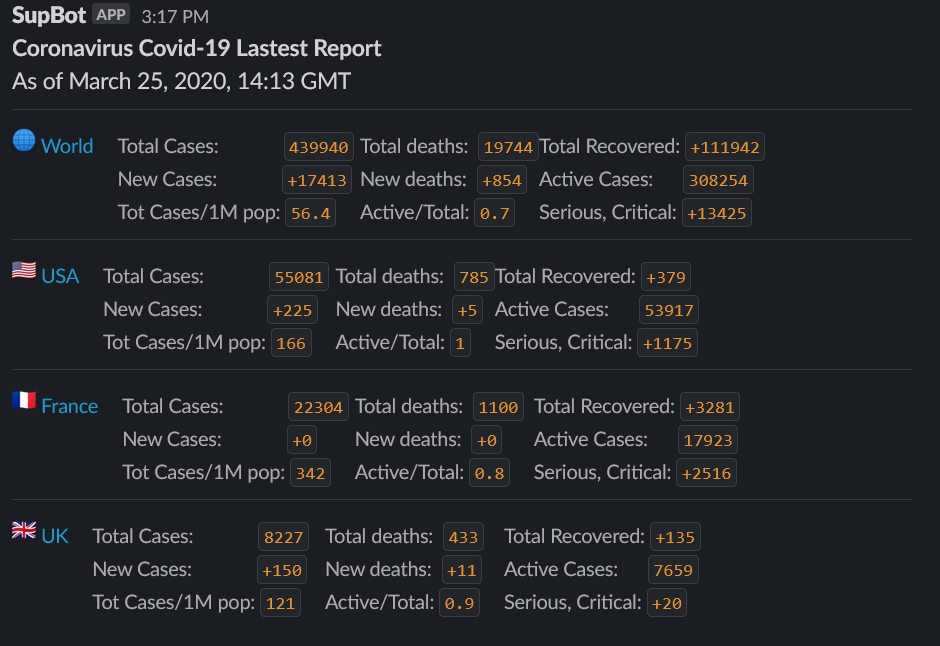
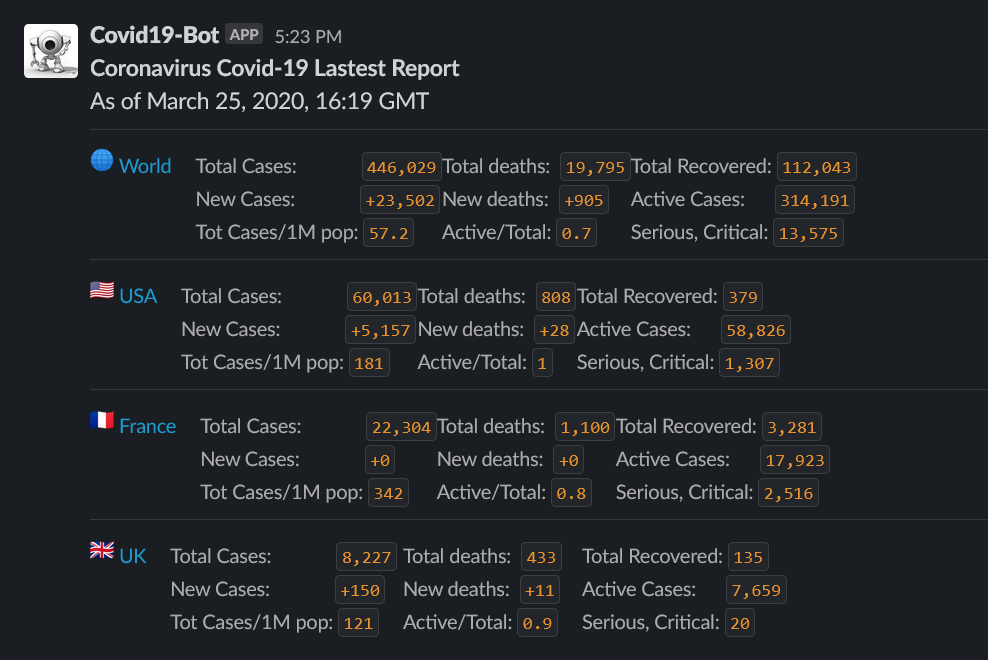
minor: add localized numbers

diff --git a/app.py b/app.py
@@ -40,19 +40,19 @@ class Covid19:
     source_url = "https://www.worldometers.info/coronavirus/"
     payload_fields = [
         {
-            "Total Cases:            ": lambda n: f"{n[0]:d}",
-            "New Cases:            ": lambda n: f"{n[1]:+d}",
-            "Tot Cases/1M pop:": lambda n: f"{n[7]:.1f}".rstrip("0").rstrip("."),
+            "Total Cases:            ": lambda n: locale.format_string("%d", n[0], True),
+            "New Cases:            ": lambda n: locale.format_string("%+d", n[1], True),
+            "Tot Cases/1M pop:": lambda n: locale.format_string("%.1f", n[7], True).rstrip("0").rstrip("."),
         },
         {
-            "Total deaths: ": lambda n: f"{n[2]:d}",
-            "New deaths: ": lambda n: f"{n[3]:+d}",
-            "Active/Total:": lambda n: f"{n[5] / n[0]:.1f}".rstrip("0").rstrip("."),
+            "Total deaths: ": lambda n:  locale.format_string("%d", n[2], True),
+            "New deaths: ": lambda n:  locale.format_string("%+d", n[3], True),
+            "Active/Total:": lambda n:  locale.format_string("%.1f", n[5] / n[0], True).rstrip("0").rstrip("."),
         },
         {
-            "Total Recovered:": lambda n: f"+{n[4]:d}",
-            "Active Cases:     ": lambda n: f"{n[5]:d}",
-            "Serious, Critical:": lambda n: f"+{n[6]:d}",
+            "Total Recovered:": lambda n:  locale.format_string("%d", n[4], True),
+            "Active Cases:     ": lambda n:  locale.format_string("%d", n[5], True),
+            "Serious, Critical:": lambda n:  locale.format_string("%d", n[6], True),
         },
     ]
 

diff --git a/README.md b/README.md
@@ -11,6 +11,8 @@ A bot that post updates about Covid-19 pandemic to a Slack channel.
 
 Minimal requirement is just `docker` or `Python3.8`
 
+You will also need a [`Slack` webhook url](https://api.slack.com/messaging/webhooks).
+
 ## Usage
 
 The application uses `docker` for easier deployment. You can use the
